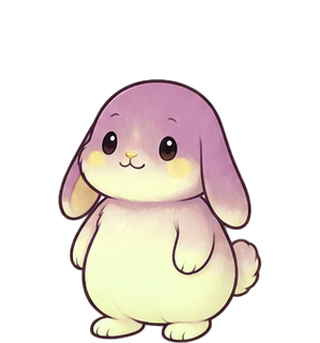
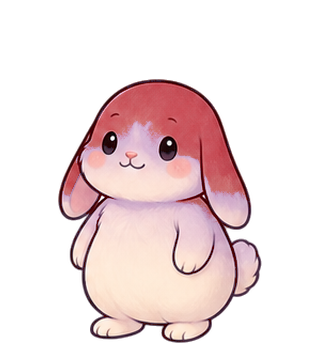
The Blueberry Lop is deep blue-violet and the Strawberry Lop pink-red: only the taro rabbit's violet ears and back are recoloured, its cream fur and pink cheeks stay

Changed region(s): [[0.1875, 0.2332, 0.8125, 0.9913], [0.2812, 0.9329, 0.3125, 0.9621]]

diff --git a/docs/anh/po-loai-tho/30-bien-the/sua-14-viet-quat-dau-tay.py b/docs/anh/po-loai-tho/30-bien-the/sua-14-viet-quat-dau-tay.py
@@ -1,0 +1,34 @@
+import sys, numpy as np
+from PIL import Image
+sys.path.insert(0, '/tmp/fix14')
+def rgb2hsv(rgb):
+    r,g,b = rgb[...,0],rgb[...,1],rgb[...,2]; mx=rgb.max(-1); mn=rgb.min(-1); d=mx-mn
+    h=np.zeros_like(mx); m=d>1e-6
+    h=np.where(m&(mx==r),((g-b)/np.maximum(d,1e-6))%6,h)
+    h=np.where(m&(mx==g)&(mx!=r),(b-r)/np.maximum(d,1e-6)+2,h)
+    h=np.where(m&(mx==b)&(mx!=r)&(mx!=g),(r-g)/np.maximum(d,1e-6)+4,h)
+    return np.stack([h*60%360, np.where(mx>0,d/np.maximum(mx,1e-6),0), mx],-1)
+def hsv2rgb(hsv):
+    h,s,v=hsv[...,0]/60.0,hsv[...,1],hsv[...,2]; i=np.floor(h)%6; f=h-np.floor(h)
+    p=v*(1-s); q=v*(1-s*f); t=v*(1-s*(1-f))
+    conds=[i==0,i==1,i==2,i==3,i==4,i==5]
+    r=np.select(conds,[v,q,p,p,t,v]); g=np.select(conds,[t,v,v,q,p,p]); b=np.select(conds,[p,p,t,v,v,q])
+    return np.stack([r,g,b],-1)
+def hdist(a,b): d=np.abs(a-b)%360; return np.minimum(d,360-d)
+src, out = sys.argv[1], sys.argv[2]
+im=Image.open(src+'/kind_tho-khoai-mon.png').convert('RGBA'); a=np.asarray(im).astype(np.float32)/255
+rgb,alpha=a[...,:3],a[...,3]; hsv=rgb2hsv(rgb)
+# The taro rabbit's coloured parts are its violet ears and back; the body is cream and the cheeks pink. Only the violet family turns.
+violet=260.0
+w=np.clip((45-hdist(hsv[...,0],violet))/10,0,1)*np.clip((hsv[...,1]-0.08)/0.10,0,1)
+def variant(name, target, sat, val):
+    o=hsv.copy()
+    spread=((hsv[...,0]-violet+180)%360)-180  # how far each pixel sits from the violet core
+    o[...,0]=np.where(w>0,(hsv[...,0]*(1-w)+(target+spread*0.35)*w)%360,hsv[...,0])
+    o[...,1]=np.clip(hsv[...,1]*(1+(sat-1)*w),0,1)
+    o[...,2]=np.clip(hsv[...,2]*(1+(val-1)*w),0,1)
+    res=hsv2rgb(o)
+    Image.fromarray((np.dstack([res,alpha])*255).round().astype(np.uint8),'RGBA').save(out+'/kind_'+name+'.png')
+variant('tho-viet-quat', 228, 2.0, 0.78)   # blueberry: deep blue-violet, darker
+variant('tho-dau-tay', 348, 2.4, 1.0)      # strawberry: pink-red
+print('ok')

diff --git a/docs/anh/po-loai-tho/30-bien-the/tao-bien-the.py b/docs/anh/po-loai-tho/30-bien-the/tao-bien-the.py
@@ -46,6 +46,8 @@ V=[
  ("tho-bang","Thỏ Băng","Ice Rabbit",2,"Stargazer","tho-suong",None,1,1,(.72,.93,1.0),None),
  ("tho-anh-dao","Thỏ Anh Đào","Cherry Blossom Rabbit",3,"Gatherer","tho-oai-huong",336,1.3,1.0,None,None),
  ("tho-luu-ly","Thỏ Lưu Ly","Forget-me-not Rabbit",3,"Gatherer","tho-oai-huong",214,1.45,1.0,None,None),
+ # Việt Quất và Dâu Tây: xoay toàn ảnh làm lông kem đổi màu theo (#14); hai con này giờ xuất bằng sua-14-viet-quat-dau-tay.py
+ # (chỉ xoay vùng tím của tai và lưng, giữ lông kem và má). Hai dòng dưới giữ cho sheet30 đủ 30 con.
  ("tho-viet-quat","Thỏ Việt Quất","Blueberry Lop",3,"Baker","tho-khoai-mon",-38,1.25,.88,None,None),
  ("tho-dau-tay","Thỏ Dâu Tây","Strawberry Lop",3,"Baker","tho-khoai-mon",44,1.2,1.0,None,None),
  ("tho-hoa-nhai","Thỏ Hoa Nhài","Jasmine Rabbit",3,"Brewer","tho-oai-huong",50,.45,1.08,None,None),
